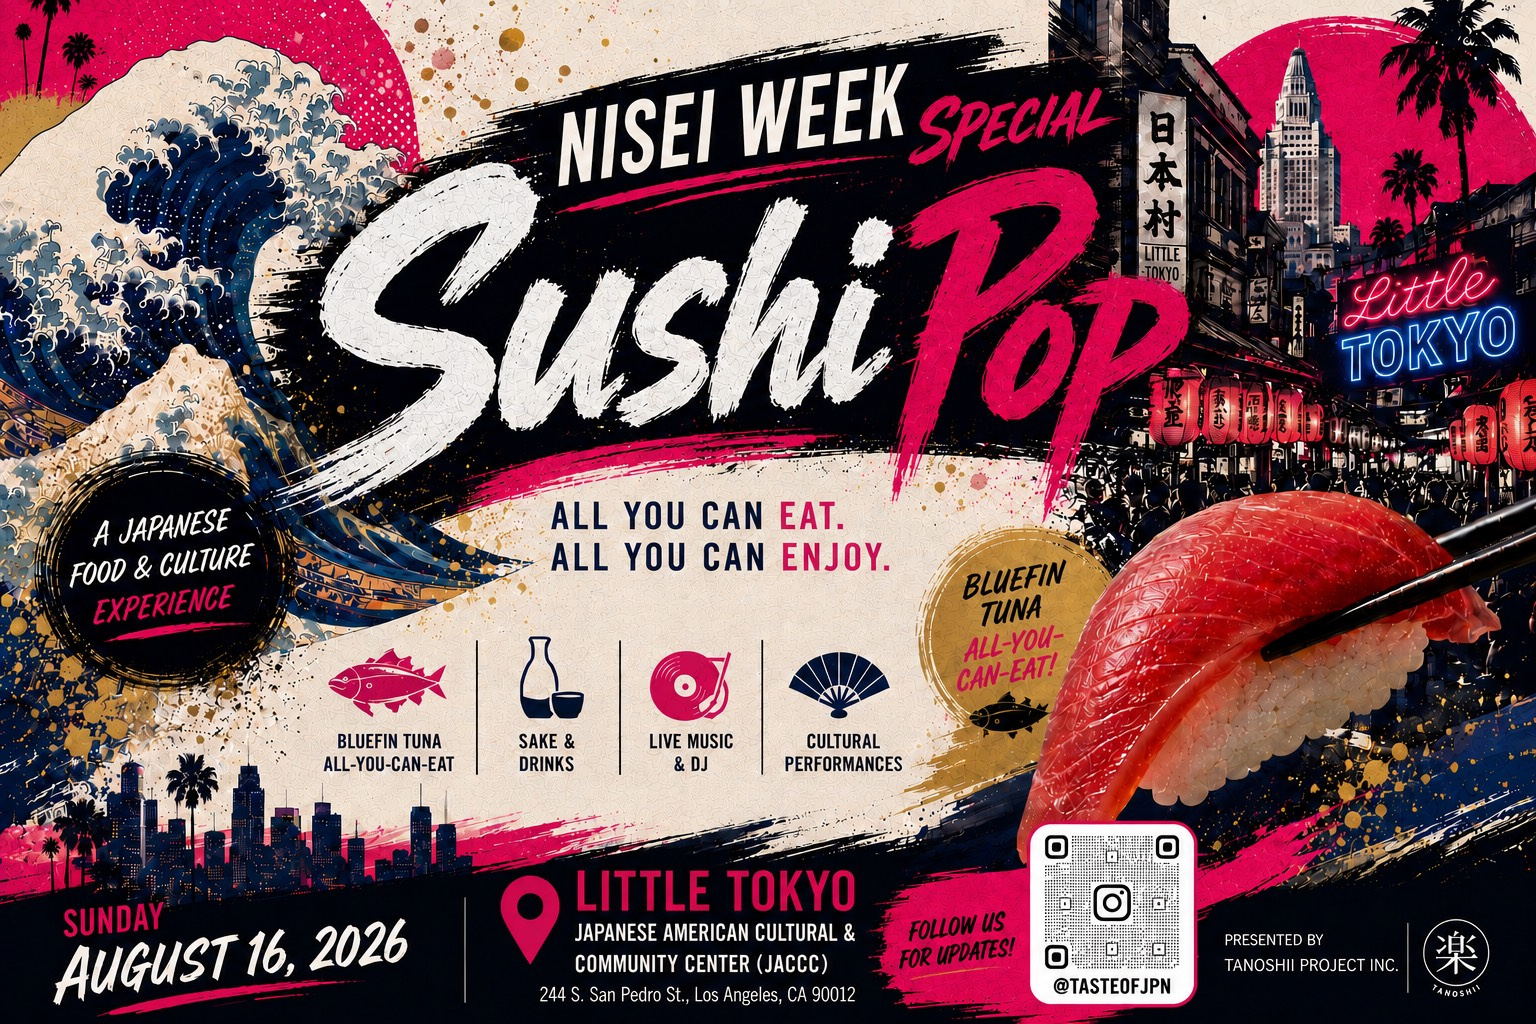
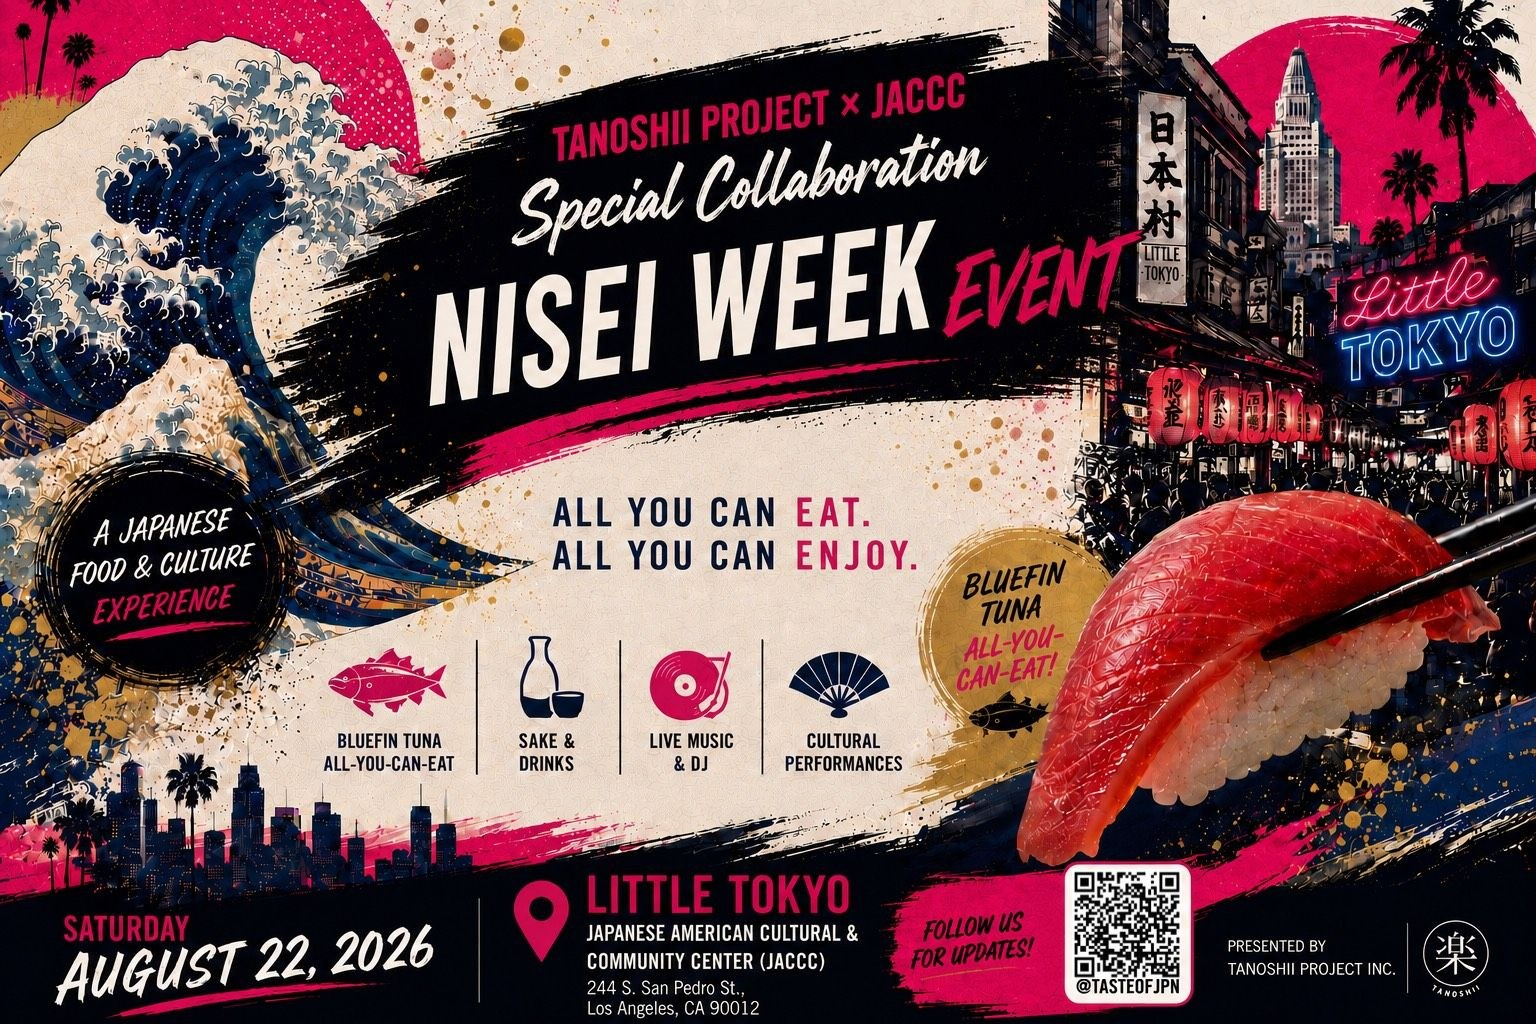
Wire in the official Nisei Week Event flyer from JACCC
Client sent two official flyer designs matching the new name and 8/22
date: the hero-style artwork and a pricing/details flyer. The pricing
info ($100/$75/$55, two sessions, 200-guest cap) already matched what
was live on the site, so no numbers changed.

- assets/img/sushi-pop-flyer.jpg: replaced with the new hero artwork,
  restored to the flyer-frame slot on the event page (two-column
  showcase layout is back)
- assets/img/sushi-pop-card.jpg: square crop of the same artwork for
  the homepage entry card
- assets/img/og-nisei-week.jpg: dedicated 1200x630 social-share image
  for the event page, no longer reusing the site-wide og-image
- assets/img/nisei-week-pricing-flyer.jpg: saved as a backup asset,
  not wired into any page since the same info already lives as
  accessible text (ticket tiers, session chips)

diff --git a/events/sushi-pop.html b/events/sushi-pop.html
@@ -17,19 +17,19 @@
 <meta name="description" content="Tanoshii Project x JACCC Special Collaboration Nisei Week Event. Sushi and city pop in Little Tokyo. Saturday, August 22, 2026 at the JACCC, Little Tokyo, Los Angeles.">
 <meta property="og:title" content="Nisei Week Event · Tanoshii Project x JACCC · Sat, Aug 22, 2026">
 <meta property="og:description" content="A Nisei Week special in Little Tokyo. Sushi and city pop, Saturday August 22.">
-<meta property="og:image" content="https://www.tasteofjpn.com/assets/img/og-image.jpg">
+<meta property="og:image" content="https://www.tasteofjpn.com/assets/img/og-nisei-week.jpg">
 <meta property="og:image:width" content="1200">
 <meta property="og:image:height" content="630">
 <link rel="canonical" href="https://www.tasteofjpn.com/events/sushi-pop.html">
 <meta property="og:url" content="https://www.tasteofjpn.com/events/sushi-pop.html">
 <meta name="twitter:card" content="summary_large_image">
-<meta name="twitter:image" content="https://www.tasteofjpn.com/assets/img/og-image.jpg">
+<meta name="twitter:image" content="https://www.tasteofjpn.com/assets/img/og-nisei-week.jpg">
 <meta property="og:type" content="website">
 <link rel="preconnect" href="https://fonts.googleapis.com">
 <link rel="preconnect" href="https://fonts.gstatic.com" crossorigin>
 <link href="https://fonts.googleapis.com/css2?family=Zen+Antique&family=Zen+Old+Mincho:wght@700;900&family=Cormorant+Garamond:ital,wght@0,500;0,600;1,500&family=Permanent+Marker&family=Shippori+Mincho:wght@500;700&family=Zen+Kaku+Gothic+New:wght@400;500;700&display=swap" rel="stylesheet">
 <link rel="stylesheet" href="../css/site.css?v=8499d69c">
-<link rel="stylesheet" href="../css/sushi-pop.css?v=78c9e5d3">
+<link rel="stylesheet" href="../css/sushi-pop.css?v=1228bc32">
 <link rel="alternate" hreflang="en" href="https://www.tasteofjpn.com/events/sushi-pop.html">
 <link rel="alternate" hreflang="ja" href="https://www.tasteofjpn.com/events/sushi-pop.html?lang=ja">
 <link rel="alternate" hreflang="x-default" href="https://www.tasteofjpn.com/events/sushi-pop.html">
@@ -112,8 +112,9 @@
 <!-- flyer showcase -->
 <section class="section" style="padding-top: 20px;">
   <div class="container sp-showcase">
-    <!-- Official JACCC flyer goes back here once the new artwork arrives.
-         The old Sushi Pop flyer was pulled on the 8/22 rename. -->
+    <div class="flyer-frame reveal" data-tilt="5">
+      <img src="../assets/img/sushi-pop-flyer.jpg" alt="Tanoshii Project x JACCC Special Collaboration Nisei Week Event official flyer, Saturday August 22, 2026 at JACCC in Little Tokyo">
+    </div>
     <div>
       <p class="eyebrow reveal" data-ja="どんな日？">What kind of day is it</p>
       <h2 class="section-title reveal" data-delay="1" data-ja="リトル東京が、<br>寿司でポップに染まる">Little Tokyo goes<br>full sushi &amp; city pop</h2>

diff --git a/css/sushi-pop.css b/css/sushi-pop.css
@@ -128,7 +128,7 @@ body.sushi-pop {
 /* ---------- flyer showcase ---------- */
 /* Single column while the flyer is pulled. Restore the two-column rule
    (1.05fr .95fr) when a corrected flyer goes back in. */
-.sp-showcase { display: grid; grid-template-columns: 1fr; gap: clamp(30px, 5vw, 70px); align-items: center; max-width: 640px; }
+.sp-showcase { display: grid; grid-template-columns: 1.05fr .95fr; gap: clamp(30px, 5vw, 70px); align-items: center; }
 .sp-showcase .flyer-frame {
   transform: rotate(-2.2deg);
   border: 10px solid #fff; border-radius: 10px;
